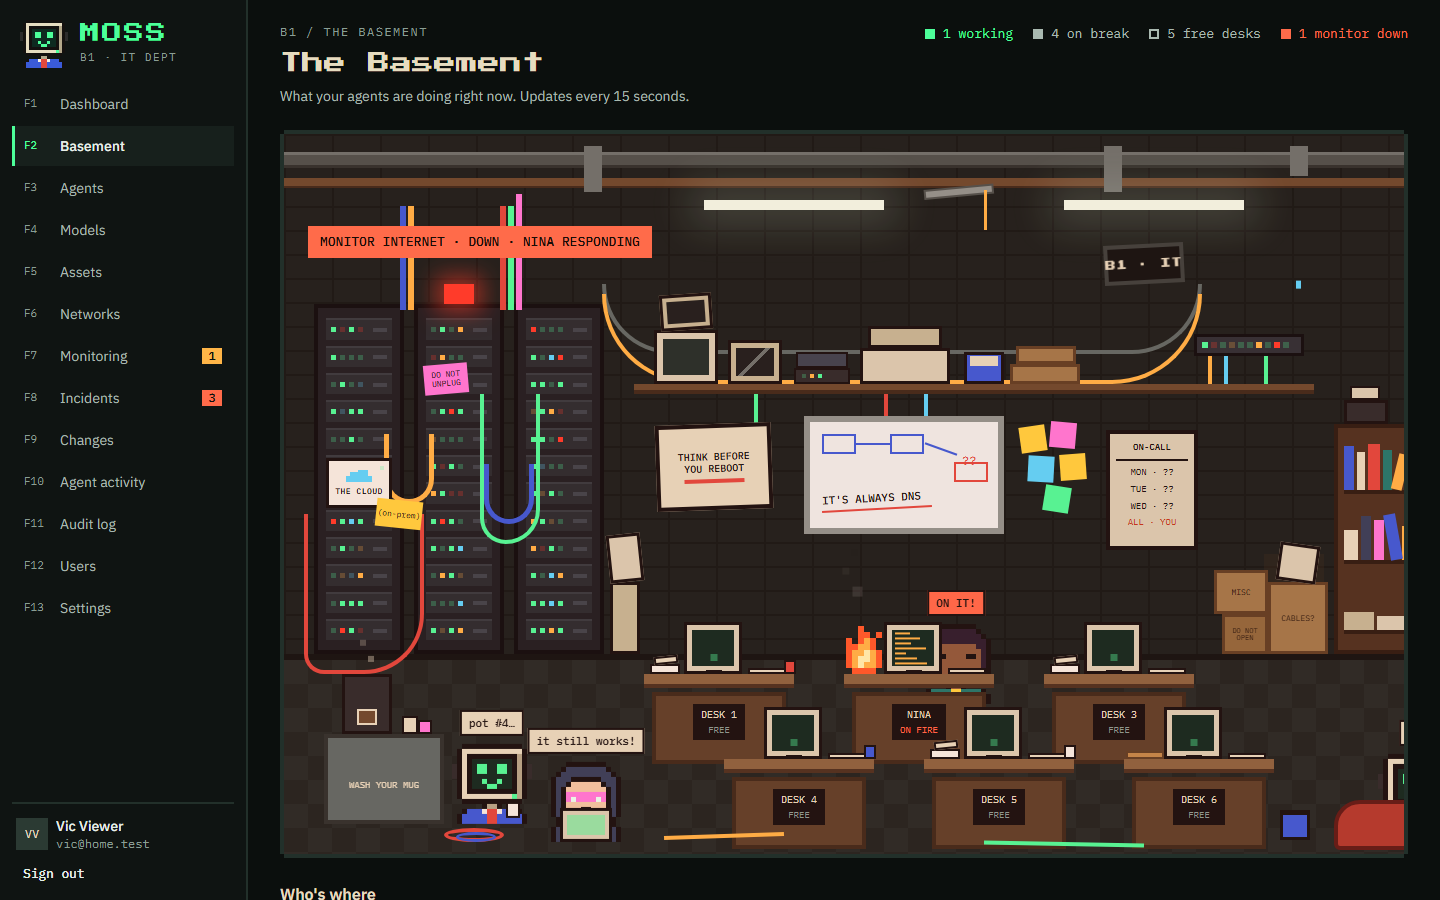
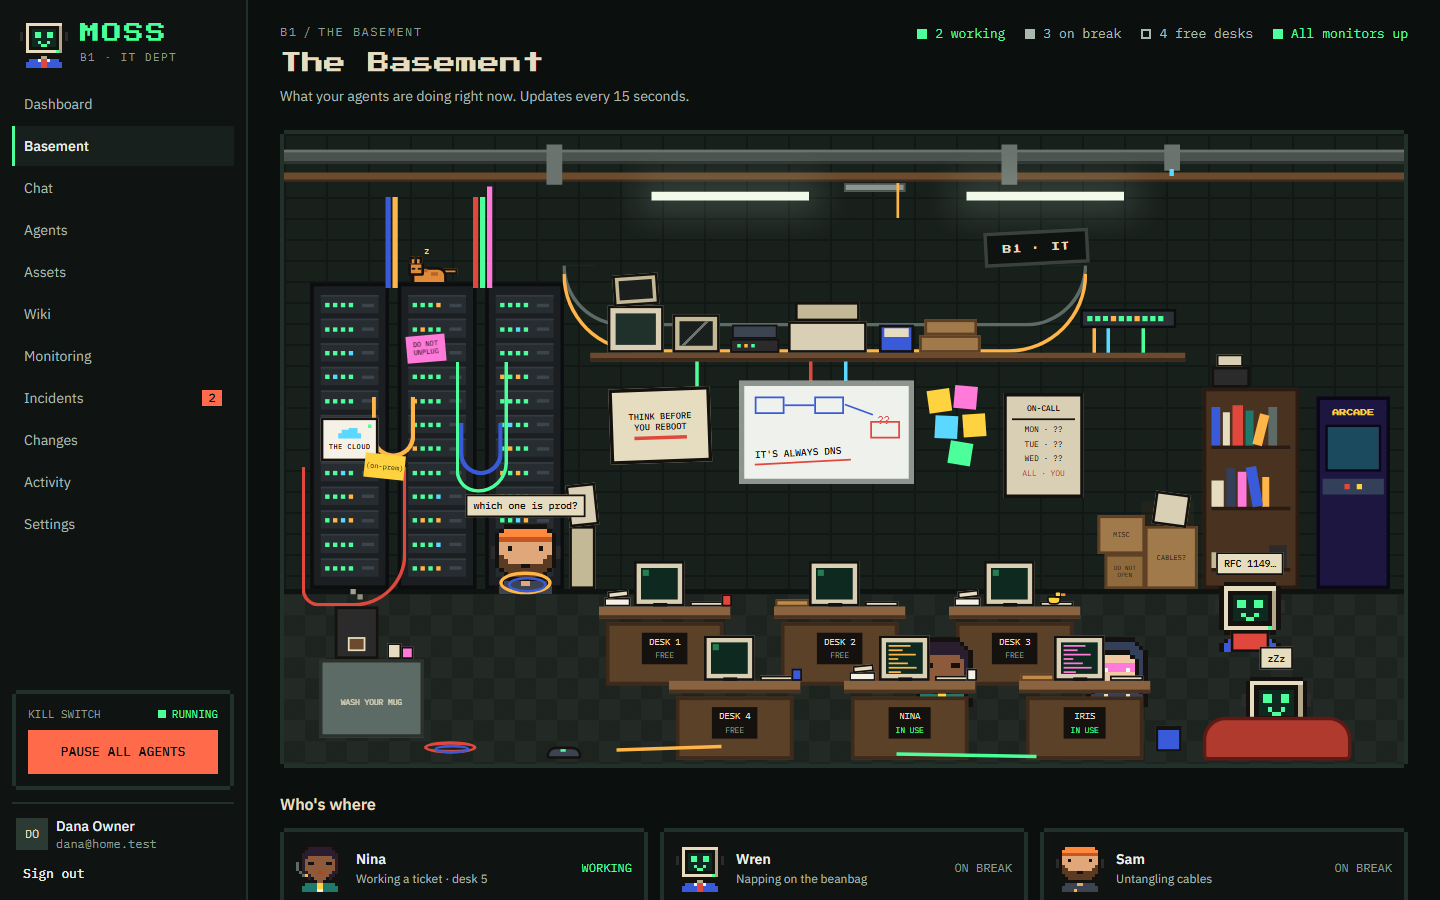
README: fresh screenshots, and two new ones
The Basement, dashboard, monitoring, an agent's page, assets and the
Home Assistant page, retaken from the current UI, plus a monitoring
dashboard and Settings → Integrations. Taken from the browser-test data
with a few more made-up devices and agents, so every name and address
is invented.

Claude-Session: https://claude.ai/code/session_01Gkdw4JMNPQ1hKdD6vkmKxS

diff --git a/README.md b/README.md
@@ -14,16 +14,20 @@ audited.
 > edges and breaking changes between releases. Only point it at networks you own or are authorised
 > to manage.
 
-![The Basement: MOSS's agents at their desks. Nina is working an internet outage while the others are on a break.](docs/screenshots/basement.png)
+![The Basement: MOSS's agents at their desks. Nina is working an incident and Iris a security check, while the others are on a break.](docs/screenshots/basement.png)
 
 <table>
   <tr>
-    <td><img src="docs/screenshots/dashboard.png" alt="Dashboard: a getting-started checklist, a briefing, and counts of open incidents, monitors down, changes awaiting approval, assets and agents"></td>
+    <td><img src="docs/screenshots/dashboard.png" alt="Dashboard: Moss's briefing, counts of open incidents, monitors down, changes awaiting approval, assets, agents and spend, token spend and the team"></td>
     <td><img src="docs/screenshots/monitoring.png" alt="Monitoring: built-in and external monitors with their state, last result and responder agent"></td>
   </tr>
   <tr>
     <td><img src="docs/screenshots/agent.png" alt="An agent's page: its recent runs, skills and their tools, mascot, model, budget and schedules"></td>
-    <td><img src="docs/screenshots/assets.png" alt="Assets: the inventory of devices with kind, IP, MAC and vendor"></td>
+    <td><img src="docs/screenshots/assets.png" alt="Assets: the inventory of devices with kind, IP, MAC and vendor, and what agents may do with each"></td>
+  </tr>
+  <tr>
+    <td><img src="docs/screenshots/monitoring-dashboard.png" alt="A monitoring dashboard: a status grid of monitors, open incidents and each monitor's last 24 hours, with a TV mode"></td>
+    <td><img src="docs/screenshots/integrations.png" alt="Settings, Integrations: Home Assistant, Telegram, Discord, Proxmox, Docker and the other integrations, each on or off"></td>
   </tr>
 </table>
 
